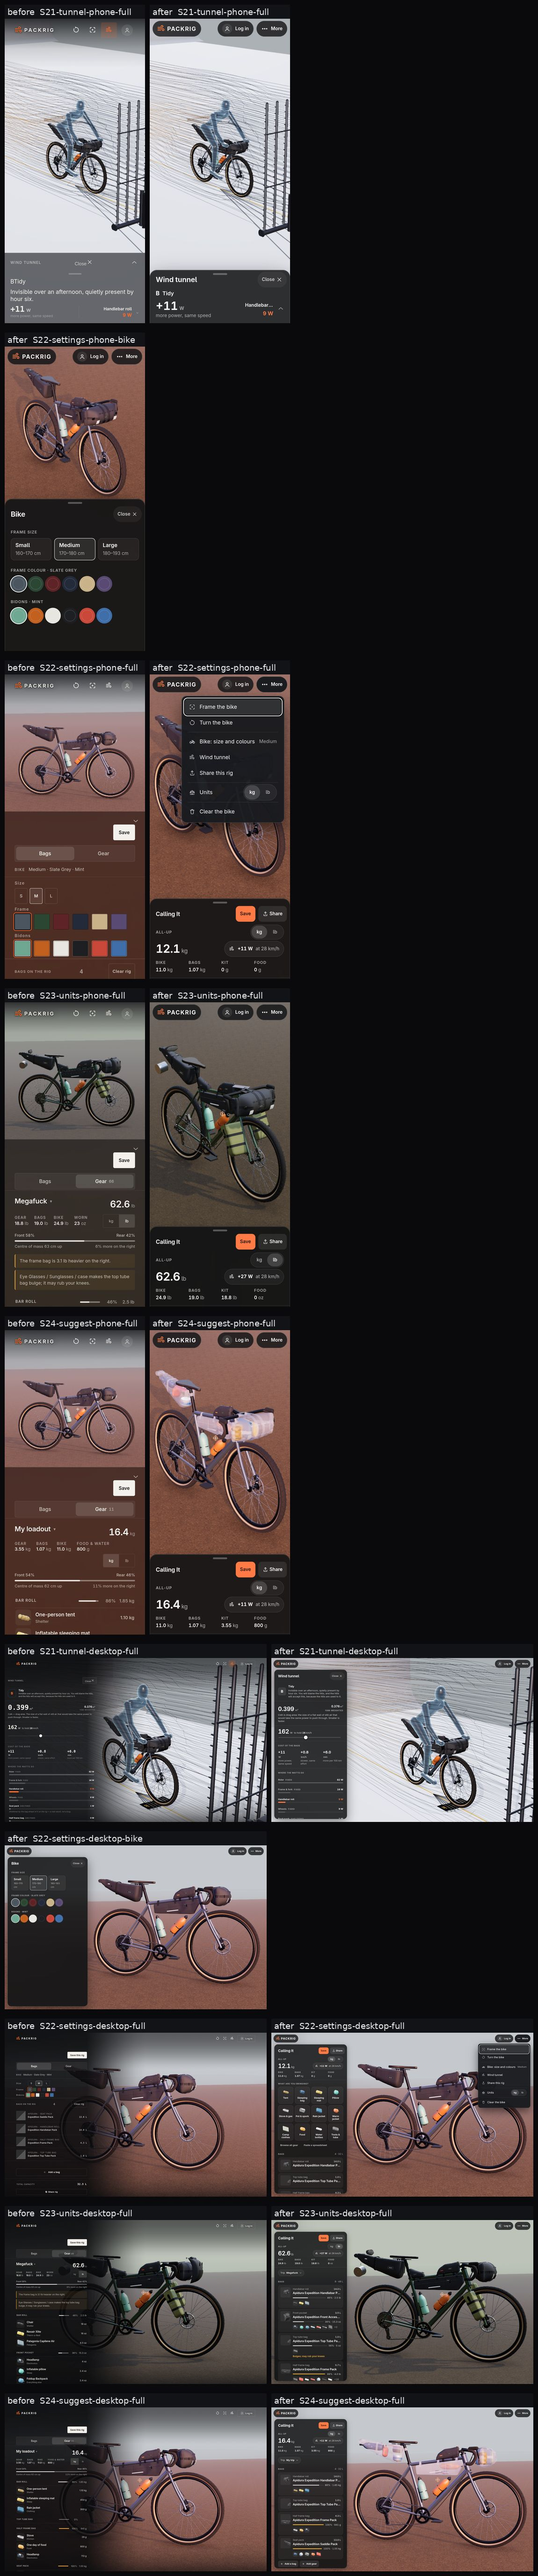
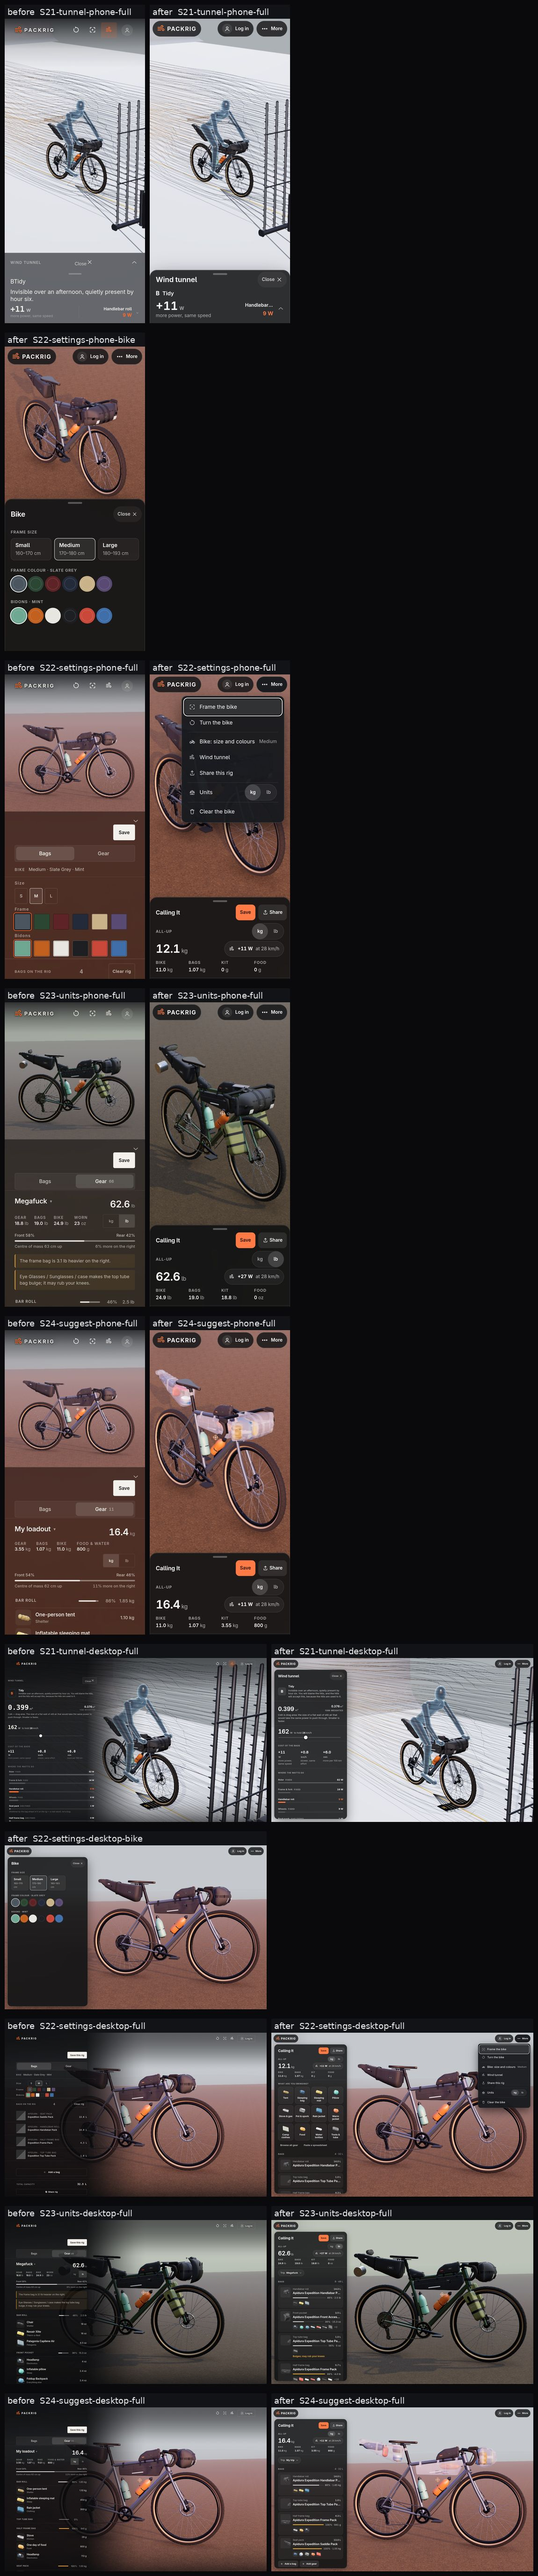
After set with 44px targets; write-up numbers; docs state the measured framing and the diff rule
Claude-Session: https://claude.ai/code/session_01DbAvdGxxhiAgnWmRnX8tBM

diff --git a/UX-WRITEUP.md b/UX-WRITEUP.md
@@ -52,9 +52,14 @@ a stylesheet you can actually reason about.
 | Open a shared link signed out and copy the kit, taps | 2 | 1 |
 | Stylesheets | 8 files, 6305 lines | 8 files, 1276 lines |
 | Distinct hex colours | 64 | 10 |
-| Distinct font sizes (px) | 35, 7 half-pixel | 9, none half-pixel |
+| Distinct font sizes declared in CSS (px) | 35, 7 half-pixel | 9, none half-pixel |
 | Text under its contrast floor, 5 environments x 2 devices x 4 scenes | not measured | 0 (worst 4.92:1) |
-AUDIT_ROWS
+| Bike height on a phone, no sheet or at peek (min over screens) | 25% | 50% (goal 45%) |
+| Bike height on a phone, sheet at half | 25% | 42% (goal 35%) |
+| Bike height with a bag open (the camera frames the bag on purpose) | 26% | 31% |
+| Phone touch targets under 44px (summed over screens) | 116 | 0 |
+| Buttons with no name | 19 | 0 |
+| Font sizes carrying text | 28, 4 under 11px | 9, none under 11px |
 
 Performance, phone profile, CPU throttled 4x, 67 things in 10 open bags: the
 UI costs 0.11 ms a frame idle, 0.23 ms while orbiting, 0.16 ms scrolling the

diff --git a/SCREENS.md b/SCREENS.md
@@ -8,7 +8,10 @@ full where the distinction exists, by
 
 into `<out>/<id>-<device>-<state>.png`, with `report.json` beside them. The
 tool fails on any page error, on horizontal page scroll, and with `--twice`
-if the same input gives different pixels. Each shot also records an audit
+if the same input gives different pixels (more than 100 CSS pixels that
+differ by more than 8/255 and touch another differing pixel: a lone pixel on
+a spoke edge is software GL, not a change). Shots run with `?still`, a
+seeded `Math.random` and CSS animations frozen. Each shot also records an audit
 (see "What every shot measures" below).
 
 How each screen is reached lives in one file, `tools/lib/screen-helpers.js`,

diff --git a/REDESIGN.md b/REDESIGN.md
@@ -16,7 +16,8 @@ from (type, colour, space, motion, icons, imagery, accessibility) are in
    went and whether it fits, and share it, in 12 taps.** (Measured:
    `tools/firsttimer.mjs`, 12 on a phone and on a desktop.)
 2. **The bike stays big.** At least 45% of a phone's height with the sheet at
-   its peek, 35% with a sheet at half.
+   its peek, 35% with a sheet at half. (Measured: 50% and 42%. A bag's own
+   sheet frames the bag instead; DECISIONS 9.6.)
 3. **One control per job, and every control says what it does.**
 4. **It says less.** (1.1)
 
